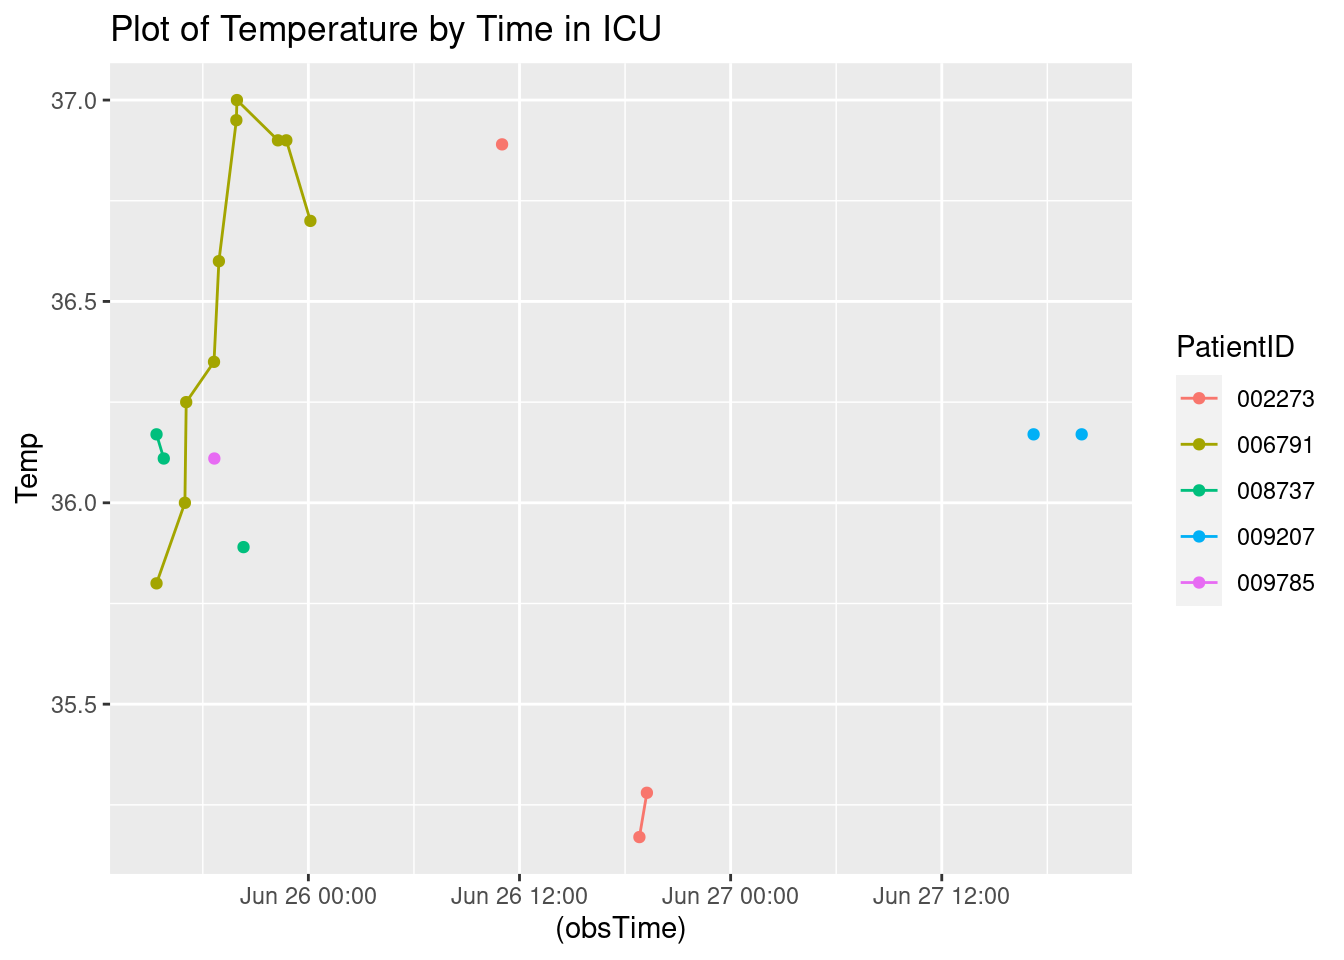
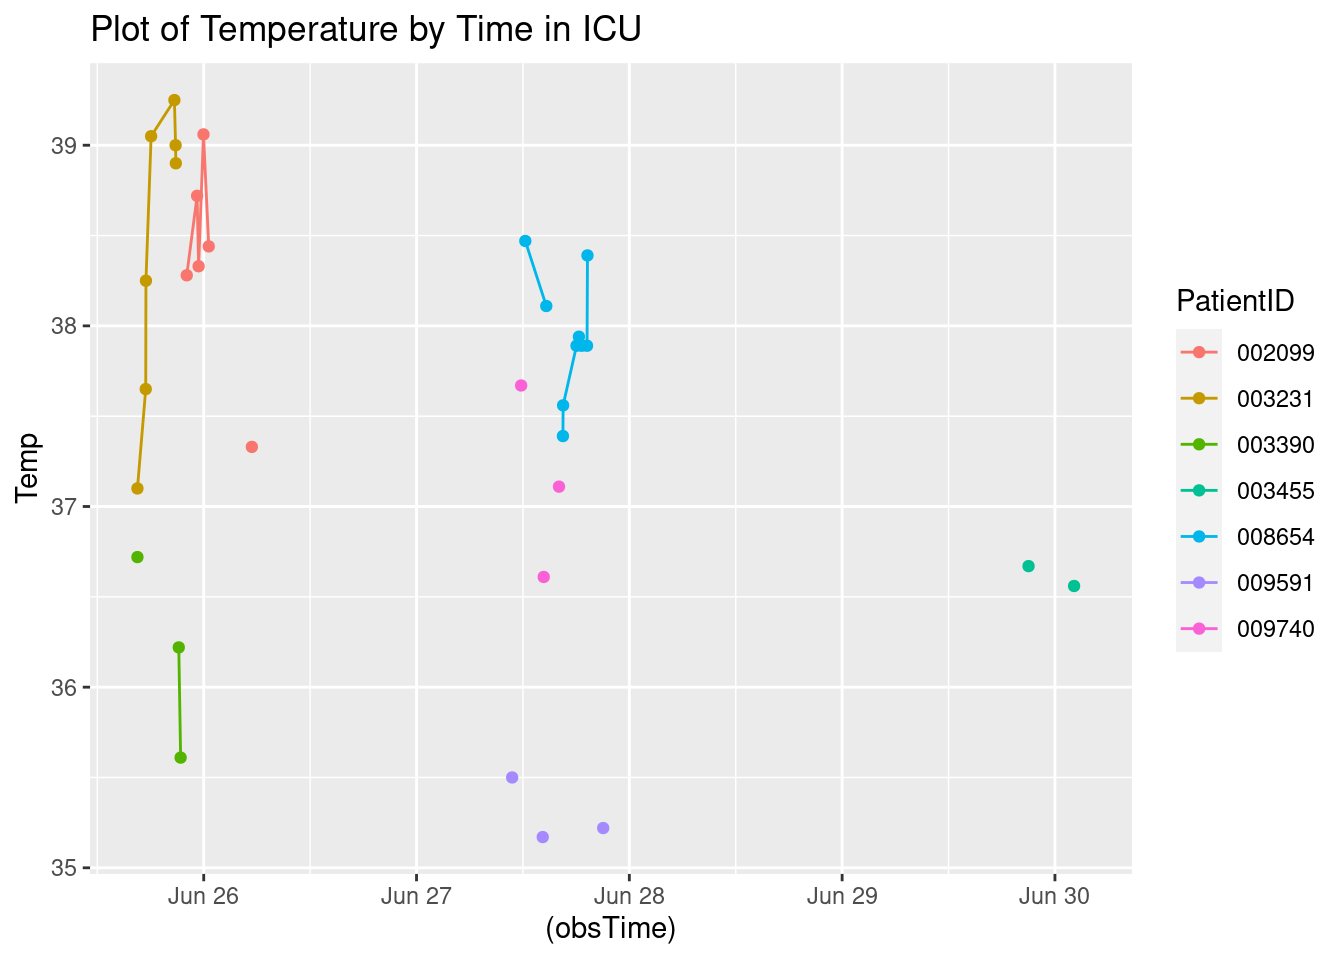
Updated report

diff --git a/A7.html b/A7.html
@@ -114,7 +114,7 @@ pre > code.sourceCode > span > a:first-child::before { text-decoration: underlin
 </div>
 <div class="sourceCode cell-code" id="cb4"><pre class="sourceCode r code-with-copy"><code class="sourceCode r"><span id="cb4-1"><a href="#cb4-1" aria-hidden="true" tabindex="-1"></a><span class="fu">toc</span>()</span></code><button title="Copy to Clipboard" class="code-copy-button"><i class="bi"></i></button></pre></div>
 <div class="cell-output cell-output-stdout">
-<pre><code>3.621 sec elapsed</code></pre>
+<pre><code>7.002 sec elapsed</code></pre>
 </div>
 <div class="sourceCode cell-code" id="cb6"><pre class="sourceCode r code-with-copy"><code class="sourceCode r"><span id="cb6-1"><a href="#cb6-1" aria-hidden="true" tabindex="-1"></a><span class="fu">tic</span>()</span>
 <span id="cb6-2"><a href="#cb6-2" aria-hidden="true" tabindex="-1"></a>test1<span class="ot">=</span><span class="fu">makeSepsisDataset</span>(<span class="at">n=</span><span class="dv">50</span>,<span class="at">read_fn =</span> <span class="st">"read_delim"</span>)</span>
@@ -124,7 +124,7 @@ pre > code.sourceCode > span > a:first-child::before { text-decoration: underlin
 </div>
 <div class="sourceCode cell-code" id="cb8"><pre class="sourceCode r code-with-copy"><code class="sourceCode r"><span id="cb8-1"><a href="#cb8-1" aria-hidden="true" tabindex="-1"></a><span class="fu">toc</span>()</span></code><button title="Copy to Clipboard" class="code-copy-button"><i class="bi"></i></button></pre></div>
 <div class="cell-output cell-output-stdout">
-<pre><code>15.783 sec elapsed</code></pre>
+<pre><code>26.567 sec elapsed</code></pre>
 </div>
 <div class="sourceCode cell-code" id="cb10"><pre class="sourceCode r code-with-copy"><code class="sourceCode r"><span id="cb10-1"><a href="#cb10-1" aria-hidden="true" tabindex="-1"></a><span class="co"># n=100</span></span>
 <span id="cb10-2"><a href="#cb10-2" aria-hidden="true" tabindex="-1"></a><span class="fu">tic</span>()</span>
@@ -135,7 +135,7 @@ pre > code.sourceCode > span > a:first-child::before { text-decoration: underlin
 </div>
 <div class="sourceCode cell-code" id="cb12"><pre class="sourceCode r code-with-copy"><code class="sourceCode r"><span id="cb12-1"><a href="#cb12-1" aria-hidden="true" tabindex="-1"></a><span class="fu">toc</span>()</span></code><button title="Copy to Clipboard" class="code-copy-button"><i class="bi"></i></button></pre></div>
 <div class="cell-output cell-output-stdout">
-<pre><code>6.185 sec elapsed</code></pre>
+<pre><code>12.558 sec elapsed</code></pre>
 </div>
 <div class="sourceCode cell-code" id="cb14"><pre class="sourceCode r code-with-copy"><code class="sourceCode r"><span id="cb14-1"><a href="#cb14-1" aria-hidden="true" tabindex="-1"></a><span class="fu">tic</span>()</span>
 <span id="cb14-2"><a href="#cb14-2" aria-hidden="true" tabindex="-1"></a>test1<span class="ot">=</span><span class="fu">makeSepsisDataset</span>(<span class="at">n=</span><span class="dv">100</span>,<span class="at">read_fn =</span> <span class="st">"read_delim"</span>)</span>
@@ -145,7 +145,7 @@ pre > code.sourceCode > span > a:first-child::before { text-decoration: underlin
 </div>
 <div class="sourceCode cell-code" id="cb16"><pre class="sourceCode r code-with-copy"><code class="sourceCode r"><span id="cb16-1"><a href="#cb16-1" aria-hidden="true" tabindex="-1"></a><span class="fu">toc</span>()</span></code><button title="Copy to Clipboard" class="code-copy-button"><i class="bi"></i></button></pre></div>
 <div class="cell-output cell-output-stdout">
-<pre><code>23.519 sec elapsed</code></pre>
+<pre><code>49.887 sec elapsed</code></pre>
 </div>
 <div class="sourceCode cell-code" id="cb18"><pre class="sourceCode r code-with-copy"><code class="sourceCode r"><span id="cb18-1"><a href="#cb18-1" aria-hidden="true" tabindex="-1"></a><span class="co"># n=500</span></span>
 <span id="cb18-2"><a href="#cb18-2" aria-hidden="true" tabindex="-1"></a><span class="fu">tic</span>()</span>
@@ -156,7 +156,7 @@ pre > code.sourceCode > span > a:first-child::before { text-decoration: underlin
 </div>
 <div class="sourceCode cell-code" id="cb20"><pre class="sourceCode r code-with-copy"><code class="sourceCode r"><span id="cb20-1"><a href="#cb20-1" aria-hidden="true" tabindex="-1"></a><span class="fu">toc</span>()</span></code><button title="Copy to Clipboard" class="code-copy-button"><i class="bi"></i></button></pre></div>
 <div class="cell-output cell-output-stdout">
-<pre><code>30.582 sec elapsed</code></pre>
+<pre><code>62.133 sec elapsed</code></pre>
 </div>
 <div class="sourceCode cell-code" id="cb22"><pre class="sourceCode r code-with-copy"><code class="sourceCode r"><span id="cb22-1"><a href="#cb22-1" aria-hidden="true" tabindex="-1"></a><span class="fu">tic</span>()</span>
 <span id="cb22-2"><a href="#cb22-2" aria-hidden="true" tabindex="-1"></a>test1<span class="ot">=</span><span class="fu">makeSepsisDataset</span>(<span class="at">n=</span><span class="dv">500</span>,<span class="at">read_fn =</span> <span class="st">"read_delim"</span>)</span>
@@ -166,7 +166,7 @@ pre > code.sourceCode > span > a:first-child::before { text-decoration: underlin
 </div>
 <div class="sourceCode cell-code" id="cb24"><pre class="sourceCode r code-with-copy"><code class="sourceCode r"><span id="cb24-1"><a href="#cb24-1" aria-hidden="true" tabindex="-1"></a><span class="fu">toc</span>()</span></code><button title="Copy to Clipboard" class="code-copy-button"><i class="bi"></i></button></pre></div>
 <div class="cell-output cell-output-stdout">
-<pre><code>115.839 sec elapsed</code></pre>
+<pre><code>250.995 sec elapsed</code></pre>
 </div>
 </div>
 <p><strong>Task 3</strong></p>
@@ -192,7 +192,7 @@ pre > code.sourceCode > span > a:first-child::before { text-decoration: underlin
 <span id="cb28-4"><a href="#cb28-4" aria-hidden="true" tabindex="-1"></a></span>
 <span id="cb28-5"><a href="#cb28-5" aria-hidden="true" tabindex="-1"></a><span class="fu">Sys.time</span>()</span></code><button title="Copy to Clipboard" class="code-copy-button"><i class="bi"></i></button></pre></div>
 <div class="cell-output cell-output-stdout">
-<pre><code>[1] "2023-06-25 15:22:11 UTC"</code></pre>
+<pre><code>[1] "2023-06-25 16:31:27 UTC"</code></pre>
 </div>
 <div class="sourceCode cell-code" id="cb30"><pre class="sourceCode r code-with-copy"><code class="sourceCode r"><span id="cb30-1"><a href="#cb30-1" aria-hidden="true" tabindex="-1"></a>dfnew <span class="ot">&lt;-</span> df <span class="sc">%&gt;%</span></span>
 <span id="cb30-2"><a href="#cb30-2" aria-hidden="true" tabindex="-1"></a>  <span class="fu">subset</span>(SepsisLabel<span class="sc">==</span><span class="dv">1</span>)</span>
@@ -221,49 +221,67 @@ pre > code.sourceCode > span > a:first-child::before { text-decoration: underlin
 </thead>
 <tbody>
 <tr class="odd">
-<td style="text-align: left;">002273</td>
-<td style="text-align: right;">28</td>
-<td style="text-align: right;">119</td>
-<td style="text-align: right;">35.28</td>
-<td style="text-align: right;">18</td>
+<td style="text-align: left;">002099</td>
+<td style="text-align: right;">14</td>
+<td style="text-align: right;">86</td>
+<td style="text-align: right;">NA</td>
+<td style="text-align: right;">11</td>
 <td style="text-align: right;">1</td>
-<td style="text-align: left;">2023-06-26 19:14:26</td>
+<td style="text-align: left;">2023-06-26 05:48:35</td>
 </tr>
 <tr class="even">
-<td style="text-align: left;">006791</td>
-<td style="text-align: right;">9</td>
-<td style="text-align: right;">96</td>
-<td style="text-align: right;">36.70</td>
-<td style="text-align: right;">16</td>
+<td style="text-align: left;">003231</td>
+<td style="text-align: right;">6</td>
+<td style="text-align: right;">98</td>
+<td style="text-align: right;">38.90</td>
+<td style="text-align: right;">19</td>
 <td style="text-align: right;">1</td>
-<td style="text-align: left;">2023-06-26 00:06:52</td>
+<td style="text-align: left;">2023-06-25 20:51:16</td>
 </tr>
 <tr class="odd">
-<td style="text-align: left;">008737</td>
-<td style="text-align: right;">7</td>
-<td style="text-align: right;">128</td>
-<td style="text-align: right;">NA</td>
-<td style="text-align: right;">24</td>
-<td style="text-align: right;">1</td>
-<td style="text-align: left;">2023-06-25 22:20:43</td>
-</tr>
-<tr class="even">
-<td style="text-align: left;">009207</td>
-<td style="text-align: right;">57</td>
-<td style="text-align: right;">70</td>
-<td style="text-align: right;">NA</td>
-<td style="text-align: right;">12</td>
-<td style="text-align: right;">1</td>
-<td style="text-align: left;">2023-06-27 20:11:08</td>
-</tr>
-<tr class="odd">
-<td style="text-align: left;">009785</td>
+<td style="text-align: left;">003390</td>
 <td style="text-align: right;">8</td>
-<td style="text-align: right;">95</td>
+<td style="text-align: right;">73</td>
 <td style="text-align: right;">NA</td>
-<td style="text-align: right;">16</td>
+<td style="text-align: right;">14</td>
 <td style="text-align: right;">1</td>
-<td style="text-align: left;">2023-06-25 22:34:12</td>
+<td style="text-align: left;">2023-06-25 23:58:27</td>
+</tr>
+<tr class="even">
+<td style="text-align: left;">003455</td>
+<td style="text-align: right;">108</td>
+<td style="text-align: right;">81</td>
+<td style="text-align: right;">NA</td>
+<td style="text-align: right;">11</td>
+<td style="text-align: right;">1</td>
+<td style="text-align: left;">2023-06-30 03:22:36</td>
+</tr>
+<tr class="odd">
+<td style="text-align: left;">008654</td>
+<td style="text-align: right;">51</td>
+<td style="text-align: right;">91</td>
+<td style="text-align: right;">38.39</td>
+<td style="text-align: right;">14</td>
+<td style="text-align: right;">1</td>
+<td style="text-align: left;">2023-06-27 19:16:47</td>
+</tr>
+<tr class="even">
+<td style="text-align: left;">009591</td>
+<td style="text-align: right;">57</td>
+<td style="text-align: right;">60</td>
+<td style="text-align: right;">NA</td>
+<td style="text-align: right;">21</td>
+<td style="text-align: right;">1</td>
+<td style="text-align: left;">2023-06-27 21:54:33</td>
+</tr>
+<tr class="odd">
+<td style="text-align: left;">009740</td>
+<td style="text-align: right;">48</td>
+<td style="text-align: right;">94</td>
+<td style="text-align: right;">37.11</td>
+<td style="text-align: right;">22</td>
+<td style="text-align: right;">1</td>
+<td style="text-align: left;">2023-06-27 16:04:08</td>
 </tr>
 </tbody>
 </table>
